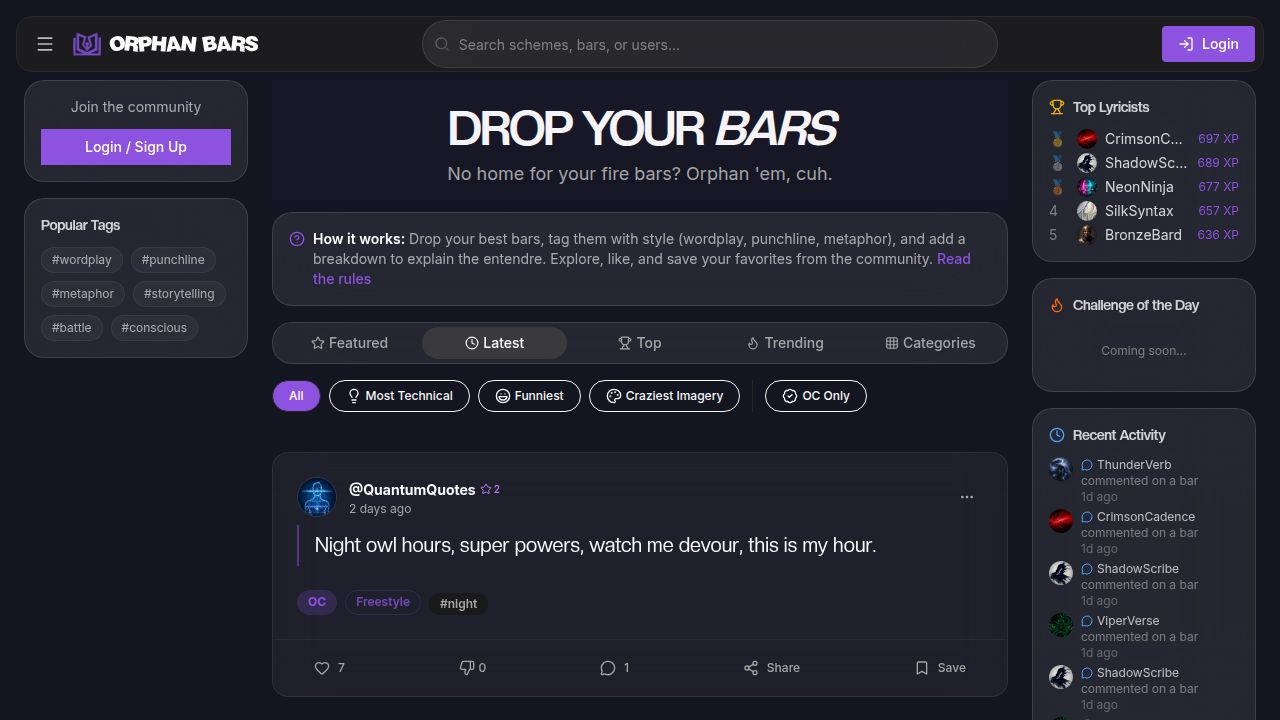
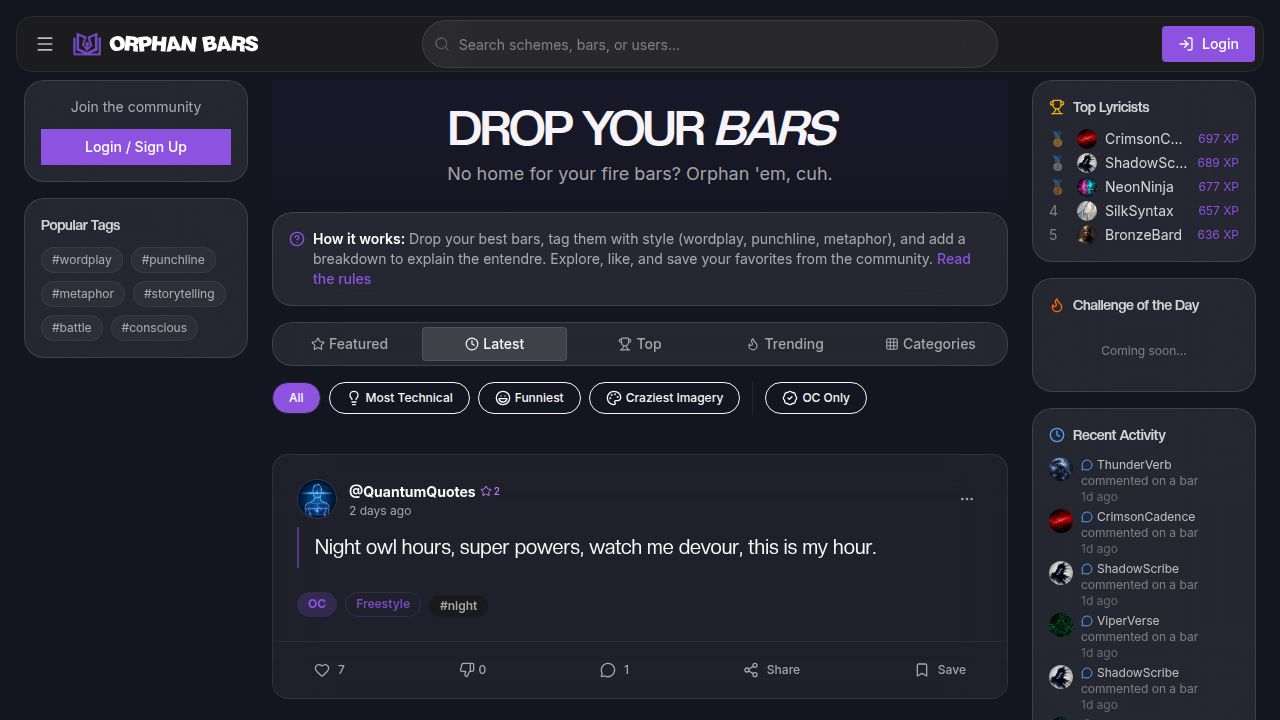
Improve transparency and styling for content panels and navigation menus
Update the service worker cache version, refine tab component styling for glass transparency, and adjust orphanage page panel backgrounds to use a glassmorphic effect.

Replit-Commit-Author: Agent
Replit-Commit-Session-Id: 512be04f-1234-4cc3-a51c-c96c24efcdb5
Replit-Commit-Checkpoint-Type: full_checkpoint
Replit-Commit-Event-Id: 033abad8-1682-46bd-ac11-76f6e2a15ab0
Replit-Commit-Screenshot-Url: https://storage.googleapis.com/screenshot-production-us-central1/ceffc5c3-e952-4163-a449-5ae4e89adb8e/512be04f-1234-4cc3-a51c-c96c24efcdb5/iVoaVet
Replit-Helium-Checkpoint-Created: true

diff --git a/client/src/pages/Orphanage.tsx b/client/src/pages/Orphanage.tsx
@@ -261,7 +261,7 @@ export default function Orphanage() {
           </div>
 
           {!isLoading && topAdoptedBars.length > 0 && (
-            <div id="leaderboard" className="mb-8 p-4 rounded-xl border bg-card/50 scroll-mt-20" data-testid="leaderboard">
+            <div id="leaderboard" className="mb-8 p-4 rounded-2xl bg-white/[0.06] backdrop-blur-xl border border-white/[0.08] scroll-mt-20" data-testid="leaderboard">
               <div className="flex items-center gap-2 mb-4">
                 <Trophy className="h-5 w-5 text-yellow-500" />
                 <h2 className="font-display font-bold text-lg">Most Adopted</h2>
@@ -300,7 +300,7 @@ export default function Orphanage() {
           )}
 
           {currentUser && myAdoptions.length > 0 && (
-            <div id="my-adoptions" className="mb-8 p-4 rounded-xl border bg-card/50 scroll-mt-20" data-testid="my-adoptions">
+            <div id="my-adoptions" className="mb-8 p-4 rounded-2xl bg-white/[0.06] backdrop-blur-xl border border-white/[0.08] scroll-mt-20" data-testid="my-adoptions">
               <div className="flex items-center gap-2 mb-4">
                 <Heart className="h-5 w-5 text-pink-500" />
                 <h2 className="font-display font-bold text-lg">My Adoptions</h2>
@@ -343,7 +343,7 @@ export default function Orphanage() {
           ) : (
             <div className="space-y-6">
               {adoptableBars.map((bar: any) => (
-                <div key={bar.id} id={`bar-${bar.id}`} className="rounded-xl border bg-card overflow-hidden shadow-sm scroll-mt-20">
+                <div key={bar.id} id={`bar-${bar.id}`} className="rounded-2xl bg-white/[0.06] backdrop-blur-xl border border-white/[0.08] overflow-hidden scroll-mt-20">
                   <BarCard bar={bar} />
                   <AdoptionPanel bar={bar} />
                 </div>

diff --git a/client/src/components/ui/tabs.tsx b/client/src/components/ui/tabs.tsx
@@ -12,7 +12,7 @@ const TabsList = React.forwardRef<
   <TabsPrimitive.List
     ref={ref}
     className={cn(
-      "inline-flex h-10 items-center justify-center rounded-full bg-[#2c2c2e] p-1 text-muted-foreground",
+      "inline-flex h-10 items-center justify-center rounded-2xl bg-white/[0.06] backdrop-blur-xl border border-white/[0.08] p-1 text-muted-foreground",
       className
     )}
     {...props}
@@ -27,7 +27,7 @@ const TabsTrigger = React.forwardRef<
   <TabsPrimitive.Trigger
     ref={ref}
     className={cn(
-      "inline-flex items-center justify-center whitespace-nowrap rounded-full px-4 py-1.5 text-sm font-medium ring-offset-background transition-all focus-visible:outline-none focus-visible:ring-2 focus-visible:ring-ring focus-visible:ring-offset-2 disabled:pointer-events-none disabled:opacity-50 data-[state=active]:bg-[#3a3a3c] data-[state=active]:text-foreground",
+      "inline-flex items-center justify-center whitespace-nowrap rounded-xl px-4 py-1.5 text-sm font-medium ring-offset-background transition-all focus-visible:outline-none focus-visible:ring-2 focus-visible:ring-ring focus-visible:ring-offset-2 disabled:pointer-events-none disabled:opacity-50 data-[state=active]:bg-white/[0.12] data-[state=active]:text-foreground data-[state=active]:border data-[state=active]:border-white/[0.1]",
       className
     )}
     {...props}

diff --git a/client/public/sw.js b/client/public/sw.js
@@ -1,4 +1,4 @@
-const CACHE_NAME = 'orphan-bars-v3';
+const CACHE_NAME = 'orphan-bars-v4';
 const STATIC_ASSETS = [
   '/manifest.json',
   '/apple-touch-icon.png',
@@ -6,7 +6,7 @@ const STATIC_ASSETS = [
   '/favicon.png',
 ];
 
-const API_CACHE_NAME = 'orphan-bars-api-v3';
+const API_CACHE_NAME = 'orphan-bars-api-v4';
 const API_CACHE_DURATION = 5 * 60 * 1000;
 
 self.addEventListener('install', (event) => {
